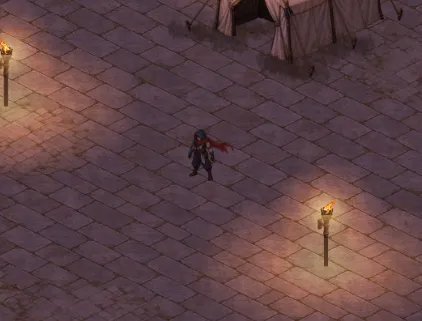
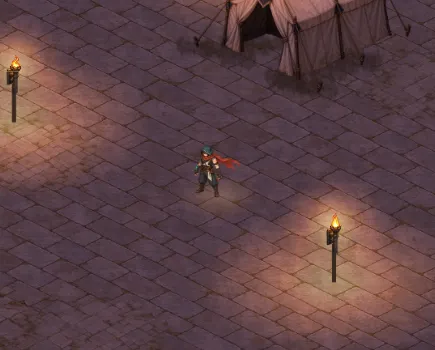
Keep local player's own hero brightly lit and clearly visible at night

diff --git a/src/stronghold/hero.ts b/src/stronghold/hero.ts
@@ -149,36 +149,43 @@ export async function createHero<P extends Placed>(o:{layer:HTMLElement;lightmap
   else if(own&&lastMove&&performance.now()-lastMove>400){lastMove=0;try{localStorage.setItem(KEY,JSON.stringify({x:Math.round(x),y:Math.round(y)}));}catch{}}
   return m>0||moving;
  }
- // The lightmap (ambient plus light pools) under the hero's feet; untinted while the world is unlit. Read
- // through a 1 px copy so the lightmap itself never gets flagged for CPU readback.
+ // The lightmap (ambient plus light pools) under a co-op ally's feet; the player's own hero stays at full
+ // painted brightness so they remain clearly visible at night. Read through a 1 px copy so the lightmap itself
+ // never gets flagged for CPU readback.
  const probe=Object.assign(document.createElement('canvas'),{width:1,height:1}).getContext('2d',{willReadFrequently:true})!;
  function sample(now:number){
-  if(now-sampled<250)return;sampled=now;let next='255,255,255';
+  if(own||now-sampled<250)return;sampled=now;let next='255,255,255';
   if(o.surface.dataset.lighting!=='off'&&o.lightmap.dataset.origin){const [l,tp,r]=o.lightmap.dataset.origin.split(',').map(Number),px=Math.floor((x-l)*r),py=Math.floor((y-12-tp)*r);
    if(px>=0&&py>=0&&px<o.lightmap.width&&py<o.lightmap.height){probe.clearRect(0,0,1,1);probe.drawImage(o.lightmap,px,py,1,1,0,0,1,1);next=[...probe.getImageData(0,0,1,1).data.slice(0,3)].join();}}
   tint=next;
  }
  function render(){
   const s=o.sun(),f=meta.frames[frameIndex()],res=Math.min(3,Math.max(1,origin.scale*(devicePixelRatio||1)));
-  // Local bounds around the foot: the mirrored sprite cell plus the foot-anchored sun-cast silhouette.
-  const half=Math.max(pivot.x,cell.w-pivot.x)*DISPLAY,top=-pivot.y*DISPLAY,bottom=(cell.h-pivot.y)*DISPLAY+8,H=-top;
+  const night=own?Math.max(0,1-s.alpha/.4):0;
+  // Local bounds around the foot: the mirrored sprite cell plus the foot-anchored sun-cast silhouette (or night aura).
+  const half=Math.max((pivot.x>cell.w-pivot.x?pivot.x:cell.w-pivot.x)*DISPLAY,night?48:0),top=-pivot.y*DISPLAY-(night?14:0),bottom=(cell.h-pivot.y)*DISPLAY+(night?20:8),H=- pivot.y*DISPLAY;
   const ends=[-half,half].flatMap(w=>[0,H].flatMap(h=>[[w+h*s.dx,h*s.dy],[w*s.wx+h*s.dx,w*s.wy+h*s.dy]])),sxs=[-half,half,...ends.map(e=>e[0])],sys=[top,bottom,...ends.map(e=>e[1]-8),...ends.map(e=>e[1]+8)];
   const b=[Math.floor(Math.min(...sxs))-4,Math.floor(Math.min(...sys))-4,Math.ceil(Math.max(...sxs))+4,Math.ceil(Math.max(...sys))+4];
   // The canvas is drawn around the foot and moved by place(), so walking redraws it only where uprights in front
   // cut it out (a hero, or an ally in co-op, re-composed every frame it walked).
   const hidden=occluders(x,y,b),at=x.toFixed(1)+','+y.toFixed(1);if(canvas.dataset.x+','+canvas.dataset.y!==at)Object.assign(canvas.dataset,{x:x.toFixed(1),y:y.toFixed(1)});
-  const key=[hero.id,state,clipName(),f.x,f.y,facing,vertical,tint,s.dx,s.dy,s.wx,s.wy,s.alpha,res,b,hidden.length?hidden.map(p=>p.x+':'+p.y).join()+'@'+Math.round(x*4)+','+Math.round(y*4):'',objects.length].join();if(key===drawn)return;drawn=key;
+  const key=[hero.id,state,clipName(),f.x,f.y,facing,vertical,tint,night.toFixed(2),s.dx,s.dy,s.wx,s.wy,s.alpha,res,b,hidden.length?hidden.map(p=>p.x+':'+p.y).join()+'@'+Math.round(x*4)+','+Math.round(y*4):'',objects.length].join();if(key===drawn)return;drawn=key;
   if(res!==k||b.some((v,i)=>v!==box[i])){k=res;box=b;canvas.width=Math.ceil((b[2]-b[0])*k);canvas.height=Math.ceil((b[3]-b[1])*k);canvas.style.width=b[2]-b[0]+'px';canvas.style.height=b[3]-b[1]+'px';}
   const frame=(target:HTMLCanvasElement)=>{const g=target.getContext('2d',{willReadFrequently:target===lit})!;g.globalCompositeOperation='copy';g.drawImage(atlas,f.x,f.y,f.w,f.h,0,0,cell.w,cell.h);g.globalCompositeOperation='source-over';return g;};
   // Multiply per pixel: a multiply fill plus alpha mask would bleed the tint into the soft edges.
+  // For the player's own hero at night, keep full painted colour and boost midtones/highlights while keeping dark outlines crisp.
   const g=frame(lit);if(tint!=='255,255,255'){const [r,gr,bl]=tint.split(',').map(v=>Number(v)/255),img=g.getImageData(0,0,cell.w,cell.h),d=img.data;for(let i=0;i<d.length;i+=4){d[i]*=r;d[i+1]*=gr;d[i+2]*=bl;}g.putImageData(img,0,0);}
+  else if(night>0){const img=g.getImageData(0,0,cell.w,cell.h),d=img.data;for(let i=0;i<d.length;i+=4)if(d[i+3]){const lum=.299*d[i]+.587*d[i+1]+.114*d[i+2],k=1+.18*night*Math.min(1,Math.max(0,(lum-28)/70));d[i]=Math.min(255,d[i]*k);d[i+1]=Math.min(255,d[i+1]*(1+(k-1)*.92));d[i+2]=Math.min(255,d[i+2]*(1+(k-1)*.78));}g.putImageData(img,0,0);}
   const dir=meta.views||vertical&&!pose?1:facing;
   const local=()=>c.setTransform(k,0,0,k,-box[0]*k,-box[1]*k),sprite=(src:HTMLCanvasElement)=>{c.scale(dir*DISPLAY,DISPLAY);c.drawImage(src,-pivot.x,-pivot.y);};
   c.setTransform(1,0,0,1,0,0);c.clearRect(0,0,canvas.width,canvas.height);local();
+  if(night>0){
+   c.save();c.translate(0,-2);c.scale(1,.52);const pg=c.createRadialGradient(0,0,2,0,0,40);pg.addColorStop(0,`rgba(255,206,136,${(.24*night).toFixed(3)})`);pg.addColorStop(.55,`rgba(255,178,102,${(.1*night).toFixed(3)})`);pg.addColorStop(1,'rgba(255,160,85,0)');c.fillStyle=pg;c.fillRect(-40,-40,80,80);c.restore();
+  }
   drawFigureShadow(c,atlas,f,cell,s,dir);
   c.save();sprite(lit);c.restore();
   cutOut(c,hidden,x,y);
-  Object.assign(canvas.dataset,{hero:hero.id,state,clip:clipName(),frame:String(frameIndex()),facing:String(facing),behind:String(hidden.length),tint});
+  Object.assign(canvas.dataset,{hero:hero.id,state,clip:clipName(),frame:String(frameIndex()),facing:String(facing),behind:String(hidden.length),tint,night:night.toFixed(2)});
  }
  function place(){canvas.style.transform=`translate3d(${origin.x+(x+box[0])*origin.scale}px,${origin.y+(y+box[1])*origin.scale}px,0) scale(${origin.scale})`;}
  let last=0;
